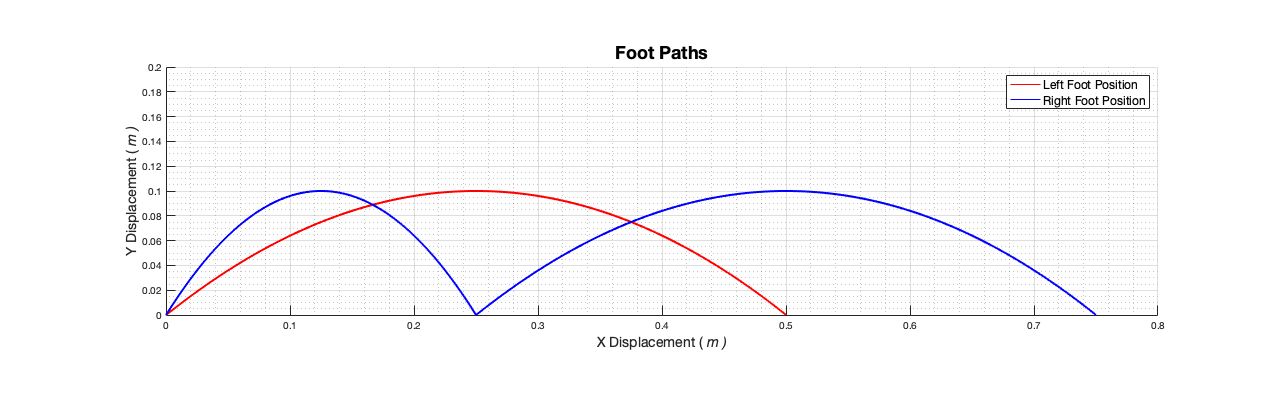
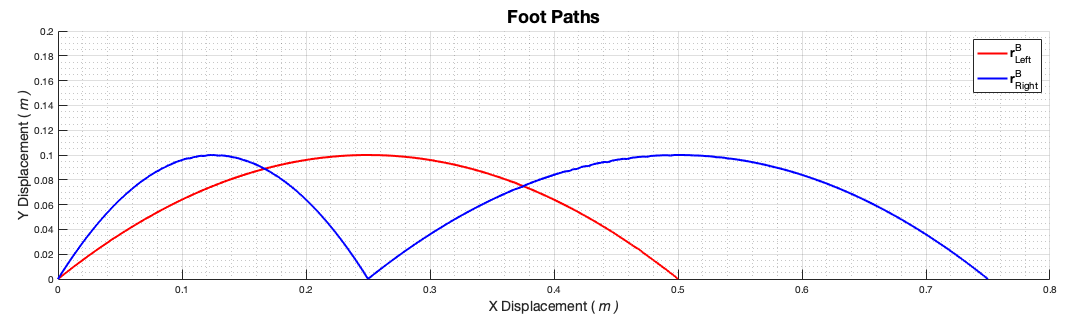
Update Content and 2D

diff --git a/MatLab/2D-QuasiStatic/plotRobot.m b/MatLab/2D-QuasiStatic/plotRobot.m
@@ -5,45 +5,51 @@ function plotRobot(index,model,params)
 %     % ZERO: Z,X,Y,   Z,  X,  Y
 %     quiver3(0,0,0, 0.5,0.0,0.0,'b','LineWidth',2); % Z
 %     quiver3(0,0,0, 0.0,0.5,0.0,'r','LineWidth',2); % X
-%     quiver3(0,0,0, 0.0,0.0,0.5,'g','Lin'bx', 'LineWidth',1.5,'MarkerSize',5eWidth',2); % Y
+%     quiver3(0,0,0, 0.0,0.0,0.5,'g','Lin'bo', 'LineWidth',1.5,'MarkerSize',5eWidth',2); % Y
     
     % MAIN COMPONENTS
+    
     rBB = HTs.AbB(1:3,4);
+    sp = rBB(1)-0.05:0.1:rBB(1)+0.05;
+    plot3(zeros(size(sp)), sp, zeros(size(sp)),'-','color','#228B22','LineWidth',3);
     rB0 = HTs.Ab0(1:3,4);
     plot3([rBB(3), rB0(3)], ... Z
           [rBB(1), rB0(1)], ... X
           [rBB(2), rB0(2)], ... Y
         'k', 'LineWidth',2);
-    plot3(rB0(3), rB0(1), rB0(2), 'bx', 'LineWidth',1.5,'MarkerSize',5);
+    plot3(rB0(3), rB0(1), rB0(2), 'bo', 'LineWidth',1.5,'MarkerSize',5);
     rB1 = HTs.Ab1(1:3,4);
     plot3([rB0(3) rB1(3)],[rB0(1) rB1(1)],[rB0(2) rB1(2)],...
         'k', 'LineWidth',2);
-    plot3(rB1(3), rB1(1), rB1(2) ,'bx', 'LineWidth',1.5,'MarkerSize',5);
+    plot3(rB1(3), rB1(1), rB1(2) ,'bo', 'LineWidth',1.5,'MarkerSize',5);
     rB2 = HTs.Ab2(1:3,4);
     plot3([rB1(3) rB2(3)], [rB1(1) rB2(1)], [rB1(2) rB2(2)],...
         'k', 'LineWidth',2);
-    plot3(rB2(3), rB2(1), rB2(2) ,'bx', 'LineWidth',1.5,'MarkerSize',5);
+    plot3(rB2(3), rB2(1), rB2(2) ,'bo', 'LineWidth',1.5,'MarkerSize',5);
     rbH = HTs.AbH(1:3,4);
     rB3 = HTs.Ab3(1:3,4);
     plot3([rB2(3) rB3(3)], [rB2(1) rB3(1)], [rB2(2) rB3(2)],...
         'k', 'LineWidth',2);
-    plot3(rB3(3), rB3(1), rB3(2), 'bx', 'LineWidth',1.5,'MarkerSize',5);
+    plot3(rB3(3), rB3(1), rB3(2), 'bo', 'LineWidth',1.5,'MarkerSize',5);
     rB4 = HTs.Ab4(1:3,4);
     plot3([rB3(3) rB4(3)], [rB3(1) rB4(1)], [rB3(2) rB4(2)],...
     'k', 'LineWidth',2);
-    plot3(rB4(3), rB4(1), rB4(2), 'bx', 'LineWidth',1.5,'MarkerSize',5);
+    plot3(rB4(3), rB4(1), rB4(2), 'bo', 'LineWidth',1.5,'MarkerSize',5);
     rB5 = HTs.Ab5(1:3,4);
     plot3([rB4(3) rB5(3)], [rB4(1) rB5(1)], [rB4(2) rB5(2)],...
         'k', 'LineWidth',2);
-    plot3(rB5(3), rB5(1), rB5(2), 'bx', 'LineWidth',1.5,'MarkerSize',5);
+    plot3(rB5(3), rB5(1), rB5(2), 'bo', 'LineWidth',1.5,'MarkerSize',5);
     rB6 = HTs.Ab6(1:3,4);
     plot3([rB5(3) rB6(3)], [rB5(1) rB6(1)], [rB5(2) rB6(2)],...
         'k', 'LineWidth',2);
-    plot3(rB6(3), rB6(1), rB6(2), 'bx', 'LineWidth',1.5,'MarkerSize',5);
+    plot3(rB6(3), rB6(1), rB6(2), 'bo', 'LineWidth',1.5,'MarkerSize',5);
     rBE = HTs.AbE(1:3,4);
     plot3([rB6(3) rBE(3)], [rB6(1) rBE(1)], [rB6(2) rBE(2)],...
         'k', 'LineWidth',2);
-    plot3(rBE(3), rBE(1), rBE(2), 'ko', 'LineWidth',2,'MarkerSize',10);
+    
+    
+
+
     axis([     -0.3,        0.1, ... % Z
          rbH(1)-0.5, rbH(1)+0.5, ... % X
                -0.02,        0.9]);   % Y

diff --git a/MatLab/2D-QuasiStatic/main.m b/MatLab/2D-QuasiStatic/main.m
@@ -58,15 +58,25 @@ params.mass.foot    = 0.2;  % Foot
         grid("minor");
         axis equal
         view(90,0);
-        xlabel('{\bfZ} (metres)');
-        ylabel('{\bfX} (metres)');
-        zlabel('{\bfY} (metres)');
         set(gca,'Color','#DDDDDD');
-        title("2D Model - 3D View");
+        xlabel('{\bfZ} (metres)','FontSize',14);
+        ylabel('{\bfX} (metres)','FontSize',14);
+        zlabel('{\bfY} (metres)','FontSize',14);
+        title('Initialised 2D Model','FontSize',18);
+        plot3(model.rCoMb(3,1), ...
+              model.rCoMb(1,1), ...
+              model.rCoMb(2,1),'ro','LineWidth',2,'MarkerSize',10)
+        plot3(model.rCoMb(3,1), ...
+              model.rCoMb(1,1), ...
+              0,'rx','LineWidth',2,'MarkerSize',10)
         plotRobot(1,model,params);
+        legend({'{\bfr}^B_{CoM}(q_{0})','GND Projected CoM',...
+                'Support Polygon',' Links',' Joints ( 1 - 6 )', ...
+                '','','','','','','','','','','','',''} ...
+                        ,'FontSize',12,'Location','eastoutside')
 
     Q1 = trajGenStep(2:321,model,params);
-        plot3(Q1(3,:),Q1(1,:),Q1(2,:),'Color','#228B22','LineWidth',2);
+        %plot3(Q1(3,:),Q1(1,:),Q1(2,:),'Color','#228B22','LineWidth',2);
 
 %% MAIN LOOPs
 tic % START TIMING
@@ -125,8 +135,8 @@ figure(2)
         hold on
         grid on
         grid minor
-        stepA = 1:321;
-        stepB = 322:641;
+        stepA = 1:481;
+        stepB = 322:801;
         stepC = 642:961;
         plot(model.tspan, model.rCoMb(1,:),'k','LineWidth',2)
         plot(model.tspan(stepA), model.rBLb(1,stepA) ...
@@ -147,7 +157,7 @@ figure(2)
         title('CoM Position with time','FontSize',18)
         xlabel('Time ( \it{sec} )','FontSize',14)
         ylabel('X Displacement ( \it{m} )','FontSize',14)
-        legend({'x_{CoM}','Upper Left_{sp}','Lower Left_{sp}'...
+        legend({'X_{CoM}','Upper Left_{sp}','Lower Left_{sp}'...
                 'Upper Right_{sp}', 'Lower Right_{sp}'} ...
                 ,'FontSize',12,'Location','northwest')
     
@@ -161,7 +171,7 @@ figure(2)
         title('Foot Position with time','FontSize',18)
         xlabel('Time ( \it{sec} )','FontSize',14)
         ylabel('X Displacement ( \it{m} )','FontSize',14)
-        legend({'Left Foot Position','Right Foot Position'} ...
+        legend({'X_{Left}','X_{Right}'} ...
         ,'FontSize',12,'Location','northwest')
 
 figure(3)
@@ -175,7 +185,7 @@ figure(3)
     title('Foot Paths','FontSize',18)
     ylabel('Y Displacement ( \it{m} )','FontSize',14)
     xlabel('X Displacement ( \it{m} )','FontSize',14)
-    legend({'Left Foot Position','Right Foot Position'} ...
+    legend({'{\bfr}^B_{Left}','{\bfr}^B_{Right}'} ...
             ,'FontSize',12,'Location','northeast')
 
     
